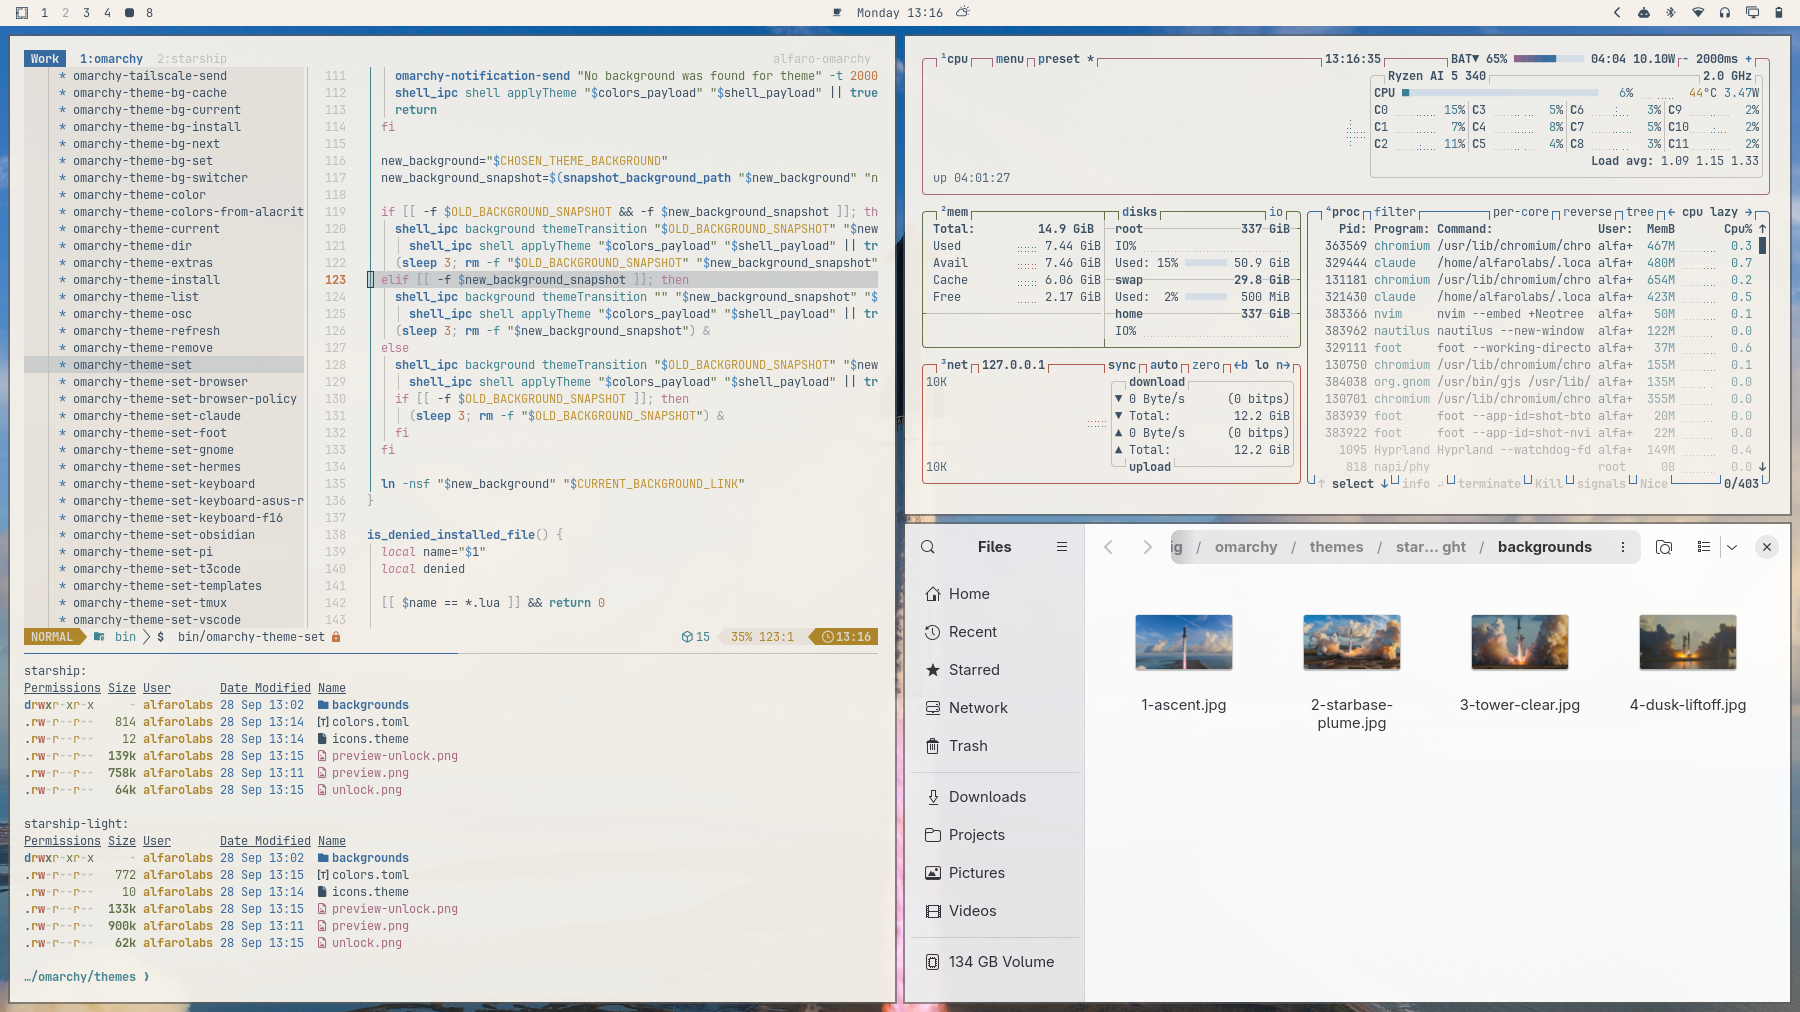
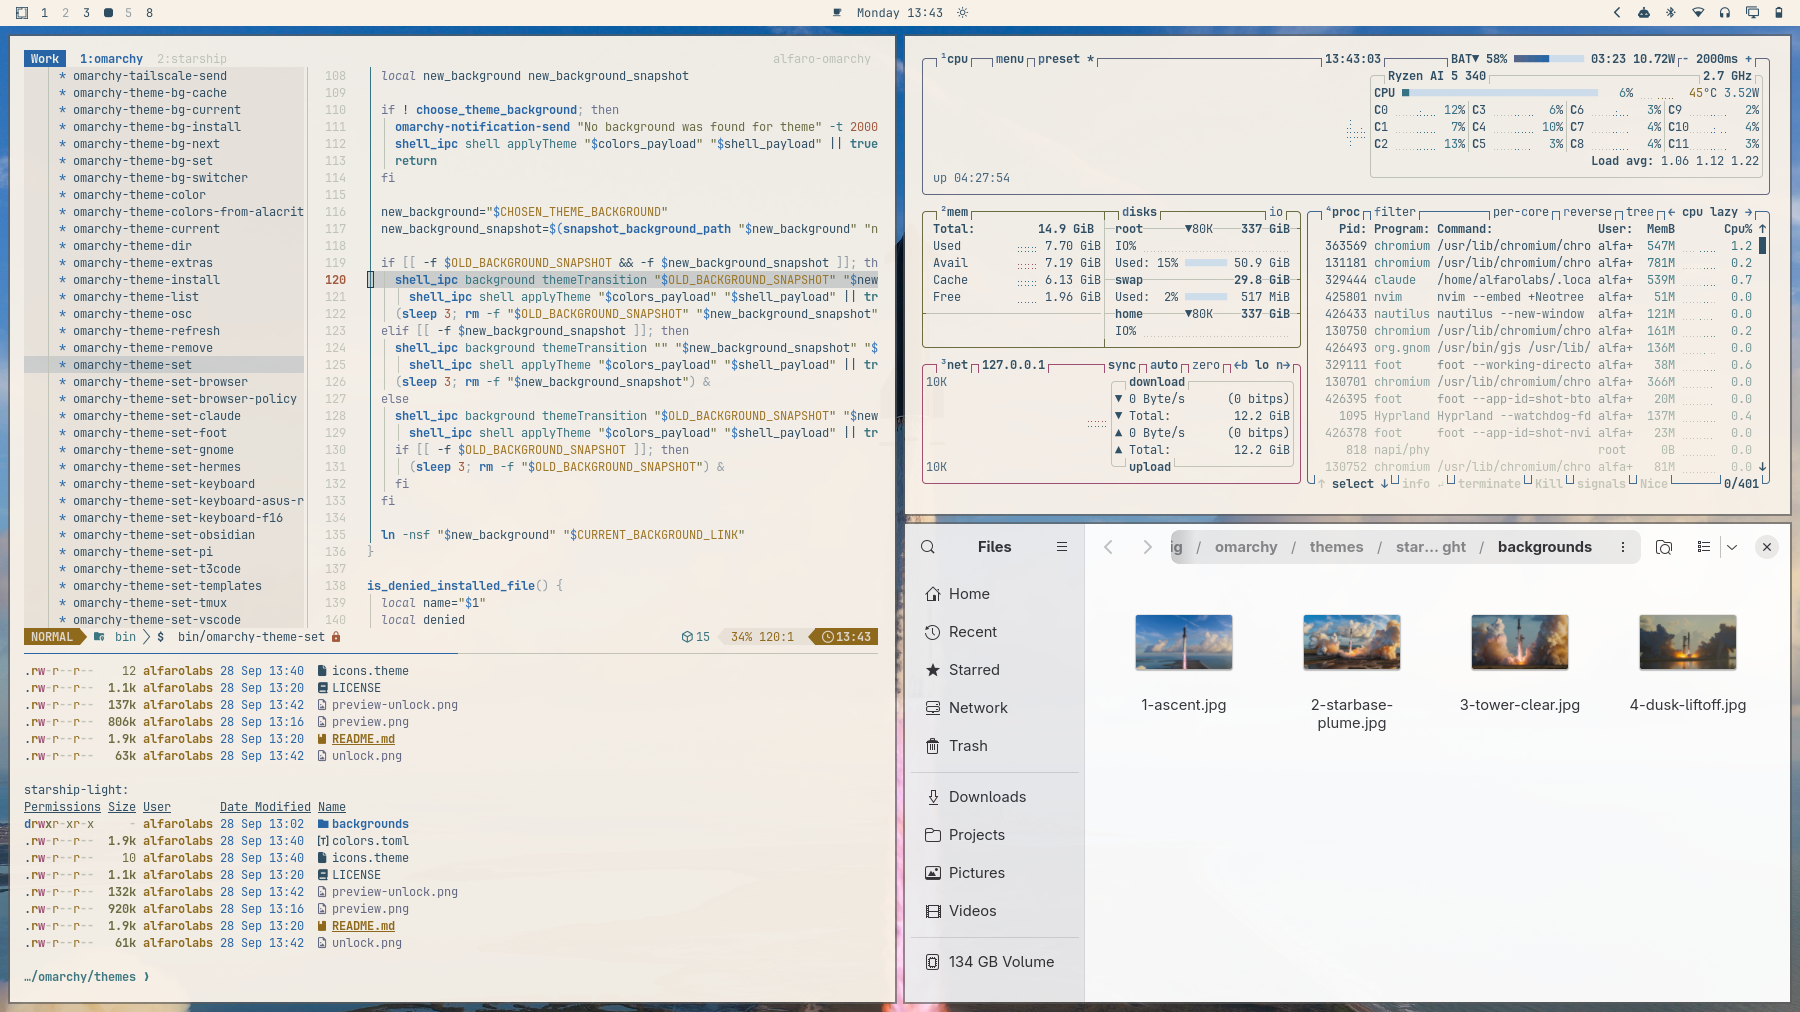
Resample palette from all four launch photos
Every color now keeps the OKLCH hue of a documented region in one of the
four backgrounds; only lightness (and at most 2.2x chroma) is tuned, and
every text color meets 4.5:1. Rebuild login logo, previews and README
palette table with photo sources.

diff --git a/README.md b/README.md
@@ -1,6 +1,6 @@
 # Starship Light — Omarchy theme
 
-A light Omarchy theme drawn from SpaceX Starship launch photography: sunlit-cloud paper, deep Gulf-sea ink, a morning-sky blue accent, and dusty flame, plume and marsh tones.
+A light Omarchy theme drawn from SpaceX Starship launch photography: sunlit-cloud paper, deep Gulf-sea ink, a steel-blue sky accent, and dusty flame, plume, marsh and smoke tones.
 
 ![Starship Light preview](preview.png)
 
@@ -28,22 +28,27 @@ omarchy plymouth set-by-theme starship-light
 
 ## Palette
 
-Every color was sampled from the launch photos in `backgrounds/`, then softened for long sessions.
+Every color is sampled from a region of one of the four launch photos in `backgrounds/`, and all four photos contribute. Each color keeps its sample's exact hue (in OKLCH). Only the lightness is set so text reads well: every text color is at least 4.5:1 against the background. Saturation is capped, and never more than 2.2x the sample.
 
-| Role       | Hex         | Source                 |
-|------------|-------------|------------------------|
-| background | `#f5f1ea` | sunlit cloud |
-| foreground | `#3b4e60` | Gulf sea |
-| accent     | `#386b9e` | morning sky |
-| selection  | `#d9e1e8` | |
-| muted      | `#c6c2bc` | |
-| red        | `#b25a4c` | engine glow |
-| yellow     | `#b08526` | flame |
-| orange     | `#c0743e` | flame |
-| green      | `#617345` | Boca Chica marsh |
-| cyan       | `#3f8290` | Gulf water |
-| blue       | `#386b9e` | sky |
-| magenta    | `#a86683` | exhaust plume |
+The photos have no true red or green, and the palette reflects that. Red is the pink of the Raptor exhaust plume, and green is the olive haze over the Boca Chica marsh at dusk.
+
+| Role | Hex | Photo | Region | Sampled |
+|------|-----|-------|--------|---------|
+| background | `#f8f1e8` | Starbase plume | sunlit cloud crown | `#cac0b3` |
+| foreground | `#2f4d61` | Ascent | deep bay water | `#364b5a` |
+| accent | `#40688e` | Tower clear | steel-blue sky above the ship | `#4e677f` |
+| selection | `#d2e0ec` | Ascent | horizon haze | `#778795` |
+| muted | `#c4c6b7` | Dusk liftoff | dusk sky | `#a4a694` |
+| red | `#a04b6f` | Ascent | pink Raptor exhaust plume | `#fac7d9` |
+| yellow | `#906817` | Starbase plume | sun-gilded plume edge | `#cfab70` |
+| orange | `#a45839` | Tower clear | flame-lit smoke by the tower | `#b68673` |
+| green | `#6c6c3f` | Dusk liftoff | olive dusk haze over the marsh | `#9fa086` |
+| cyan | `#387480` | Starbase plume | Gulf on the horizon | `#89abb2` |
+| blue | `#2765a5` | Ascent | clear morning sky | `#1863aa` |
+| magenta | `#636781` | Tower clear | lavender shadow in the smoke column | `#42444f` |
+| brown | `#66452b` | Starbase plume | tidal mudflats | `#5f4837` |
+
+The full palette, including bright variants, is in `colors.toml`. Each line there names the photo and region it came from.
 
 Everything else (terminals, Neovim, btop, shell, Hyprland borders, lock screen, VS Code, ...) is generated by Omarchy from `colors.toml`.
 
